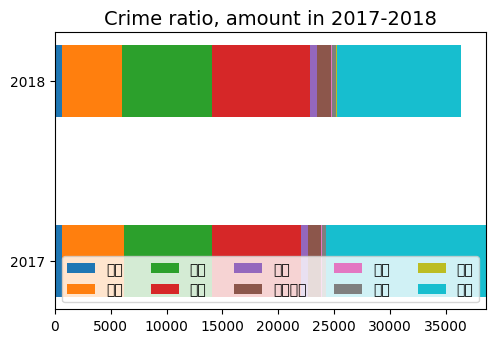
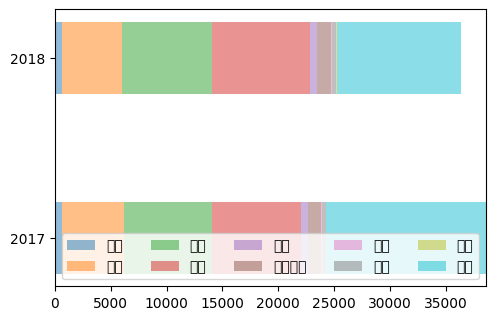
0612_2221

diff --git a/gui.py b/gui.py
@@ -15,7 +15,6 @@ import json
 
 path = 'NanumGothic.ttf'
 font_name = fm.FontProperties(fname=path).get_name()
-print(font_name)
 plt.rc('font', family=font_name)
 
 def loadCrimeData():
@@ -100,13 +99,18 @@ def getCrimeData(year):
 def saveCrimeCountGraph():
     global temp_2017
 
+    fig, ax1 = plt.subplots()
+    fig.set_size_inches(5, 4)
+
     temp=getCrimeData(2017)
-    # Basic stacked area chart.
+
+    # 시별 범죄 발생 건수
     x=temp.columns[2:]
     y_list=[]
 
     summations=[]
     cities=temp.columns[2:]
+
     bar_colors=[]
 
     for i in range(10):
@@ -116,30 +120,54 @@ def saveCrimeCountGraph():
     for city in cities:
         y=temp[city]
         summations.append(sum([int(i) for i in y]))
-        bar_colors.append('blue')
+        bar_colors.append('black')
 
     bar_colors[len(bar_colors)-1]='red'
 
     temp_2017=pd.DataFrame({'City':x, 'Counts':summations})
-    temp_2017=temp_2017.sort_values(['Counts','City'], ascending=True)
+    temp_2017=temp_2017.sort_values(['City'], ascending=True)
+    
+    new_cities=list(temp_2017['City'])
+    new_counts=list(temp_2017['Counts'])
 
-    plt.barh(range(len(x)), list(temp_2017['Counts']), color=bar_colors)
+    plt.plot(new_cities, new_counts, alpha=0.6)
+    fig.autofmt_xdate(rotation=45)
 
-    ax = plt.gca()
-    ax.axes.xaxis.set_visible(False)
-    ax.axes.xaxis.set_ticks([])
 
-    plt.gca().spines['right'].set_visible(False) #오른쪽 테두리 제거
-    plt.gca().spines['top'].set_visible(False) #위 테두리 제거
-    plt.gca().spines['left'].set_visible(False) #왼쪽 테두리 제거
-    plt.gca().spines['bottom'].set_visible(False) #아래쪽 테두리 제거
+    ax2 = ax1.twinx()
 
-    # plt.title('Total crime counts by city', fontsize=18)
-    # plt.ylabel('City', fontsize=15)
-    # plt.xlabel('Crime counts', fontsize=15)
-    plt.yticks(range(len(x)), list(temp_2017['City']), fontsize=10, rotation=0)
-    plt.savefig('CrimeCounts.png', transparent=True, bbox_inches = 'tight')
+    temp_cctv=[]
+    temp_bell=[]
+    temp_police=[]
+    for city in new_cities:
+        temp_bell.append(len(loadBellData(2017, city))-len(loadBellData(2016, city)))
+        temp_cctv.append(len(loadCCTVData(2017, city))-len(loadCCTVData(2016, city)))
+        temp_police.append(sum(loadPoliceData(2017,city)['인원증감']))
 
+    bar_width = 0.25
+    indexs1=[]
+    for i in range(len(cities)):
+        indexs1.append(i+1)
+
+    indexs2=[]
+    for i in range(len(cities)):
+        indexs2.append(i+1+bar_width)
+
+    indexs3=[]
+    for i in range(len(cities)):
+        indexs3.append(i+1+2*bar_width)
+
+    plt.bar(indexs1, temp_cctv, color='r',width=bar_width, alpha=0.5, label='CCTV')
+    plt.bar(indexs2, temp_bell, color='g',width=bar_width, alpha=0.5, label='Bell')
+    plt.bar(indexs3, temp_police, color='b',width=bar_width, alpha=0.5, label='PoliceMan')
+
+    plt.legend()
+
+    plt.title("Increasement of facilities and amount of crime", fontsize=14)
+    plt.savefig('CrimeFacilityCounts.png', transparent=True, bbox_inches = 'tight')
+
+    print(pd.DataFrame({'city':new_cities, 'counts':new_counts, 'cctv':temp_cctv, 'bell':temp_bell, 'police':temp_police}))
+    
 def saveCorrGraph():
     global corr_result
 
@@ -184,24 +212,8 @@ def getCrimeDifference(city):
 
 getCrimeDifference('수원시')
 
-def saveCrimePieChart(city):
+def saveCrimeDiffChart(city):
     crime_diff=getCrimeDifference('수원시')
-    # plt.clf()
-    # plt.subplot(1,2,1)
-    # plt.pie(crime_diff['2017'].tolist(),
-    #          labels=list(crime_diff.index),
-    #          startangle=90,
-    #          counterclock=True,
-    #          autopct=lambda p: '{:.2f}%'.format(p))
-    # # plt.savefig('Crime2017.png', transparent=True, bbox_inches = 'tight')
-
-    # plt.subplot(1,2,2)
-    # plt.pie(crime_diff['2018'].tolist(),
-    #          labels=list(crime_diff.index),
-    #          startangle=90,
-    #          counterclock=True,
-    #          autopct=lambda p: '{:.2f}%'.format(p))
-    # plt.savefig('Crime_2017_2018.png', transparent=True, bbox_inches = 'tight')
 
     plt.clf()
     fig = plt.gcf()
@@ -224,14 +236,13 @@ def saveCrimePieChart(city):
     for i, colname in enumerate(zip(category_names)):
         widths = data[:, i]
         starts = data_cum[:, i] - widths
-        rects = plt.barh(['2017','2018'], widths, left=starts, height=0.4,
-                        label=category_names[i])
+        rects = plt.barh(['2017','2018'], widths, left=starts, height=0.4, alpha=0.5, label=category_names[i])
 
-    plt.title("Crime ratio, amount in 2017-2018", fontsize=14)
+    # plt.title("Crime ratio, amount in 2017-2018", fontsize=14)
     plt.legend(loc="lower left", ncol=len(category_names)//2)
     plt.savefig('Crime_2017_2018_2.png', dpi=100, transparent=True, bbox_inches = 'tight')
 
-saveCrimePieChart('수원시')
+saveCrimeDiffChart('수원시')
 
 def saveFacilitiesGraph():
     crime2017=getCrimeData(2017)
@@ -293,7 +304,6 @@ saveFacilitiesGraph()
 
 def polygon_click(polygon):
     print('cliekced', polygon.name)
-    current_city.set(polygon.name+' 범죄 발생 통계')
 
 root = Tk()
 
@@ -309,25 +319,25 @@ ttk.Label(frm1_1, text="데이터 분석 기초 5조 팀프로젝트", font=("Ti
 ttk.Label(frm1_1, text="범죄예방시설물의 영향도 분석", font=("Times","14","bold")).grid(column=0, row=1,columnspan=2, sticky=W)
 ttk.Label(frm1_1, text=" ").grid(column=0, row=2,columnspan=2, sticky=W)
 ttk.Label(frm1_1, text="팀원").grid(column=0, row=3, sticky=W)
-ttk.Label(frm1_1, text="강동영, 김우석, 김영준, 소문주, 조가희").grid(column=1, row=3, sticky=W)
-frm1_1.place(height=100, width=420, x=0,y=0)
+ttk.Label(frm1_1, text="강동영, 김우석, 곽영진, 소문주, 조가희").grid(column=1, row=3, sticky=W)
+frm1_1.place(height=100, width=600, x=0,y=0)
 
 frm1_2 = ttk.Frame(frm1, padding=0)
-ttk.Label(frm1_2, text="\n시별 범죄 발생률(기준: 2017년도)", font=("Times","12","bold")).pack(anchor="w")
-image=PhotoImage(file="CrimeCounts.png",master=frm1_2)
+ttk.Label(frm1_2, text="\n2017-2018년도 범죄 양상 비교", font=("Times","12","bold")).pack(anchor="w")
+image=PhotoImage(file="Crime_2017_2018_2.png",master=frm1_2)
 label=ttk.Label(frm1_2, image=image)
 label.pack(anchor="nw")
-frm1_2.place(height=450, width=420, x=0, y=100)
-frm1.place(height=550, width=420, x=0,y=0)
+frm1_2.place(height=450, width=600, x=0, y=100)
+frm1.place(height=550, width=600, x=0,y=0)
 
 
 frm2 = ttk.Frame(root, padding=30)
-frm2.place(height=550, width=1350, x=420, y=0)
+frm2.place(height=550, width=1200, x=550, y=0)
 
 frm2_1 = ttk.Frame(frm2, padding=0)
-map_widget=tkintermapview.TkinterMapView(frm2_1,height=550,width=1350,corner_radius=0)
+map_widget=tkintermapview.TkinterMapView(frm2_1,height=550,width=1200,corner_radius=0)
 map_widget.set_position(37.394946, 127.111104)
-map_widget.place(height=550, width=1350, x=0, y=0)
+map_widget.place(height=550, width=1200, x=0, y=0)
 
 gyeonggi_geojson='./TL_SCCO_SIG.json'
 
@@ -336,7 +346,7 @@ with open(gyeonggi_geojson, 'r', encoding='utf-8') as file:
 
 map_widget.set_zoom(10)
 map_widget.pack()
-frm2_1.place(height=550, width=1350, x=0, y=0)
+frm2_1.place(height=550, width=1200, x=0, y=0)
 
 
 
@@ -381,7 +391,7 @@ def check1Changed():
     # cctv
     if CheckVar1.get()==1:
         print("cctv checked")
-        cctv_data=loadCCTVData('경기도')
+        cctv_data=loadCCTVData(2017, '경기도')
         cctv_image = ImageTk.PhotoImage(Image.open(os.path.join(os.path.dirname(os.path.abspath(__file__)), "cctv.png")).resize((300, 200)))
         for i in range(0,len(cctv_data)):
             m=map_widget.set_marker(cctv_data.iloc[i]['위도'], cctv_data.iloc[i]['경도'], text=cctv_data.iloc[i]['설치목적구분'], image=cctv_image, image_zoom_visibility=(14, float("inf")))
@@ -397,7 +407,7 @@ def check2Changed():
     # bell
     if CheckVar2.get()==1:
         bell_image = ImageTk.PhotoImage(Image.open(os.path.join(os.path.dirname(os.path.abspath(__file__)), "bell.png")).resize((300, 200)))
-        emergency_bell_data=loadBellData('경기도')
+        emergency_bell_data=loadBellData(2017, '경기도')
         for i in range(0,len(emergency_bell_data)):
             m=map_widget.set_marker(emergency_bell_data.iloc[i]['위도'], emergency_bell_data.iloc[i]['경도'], image=bell_image, image_zoom_visibility=(14, float("inf")))
             m.hide_image(False)
@@ -424,11 +434,12 @@ for feature in geojson["features"]:
 
 def radioChanged():
     global currentPolygon
+
     if currentPolygon is not None:
         currentPolygon.delete()
 
     if RadioVariety.get() == 1:    
-        police_data=loadPoliceData('경기')
+        police_data=loadPoliceData(2017,'경기')
 
         print('경찰관 checked')
         colors=["green", "orange", "orangered1","orangered4"]
@@ -449,7 +460,6 @@ def radioChanged():
                 else:
                     flag=0
                     
-                print(coords)
                 currentPolygon = map_widget.set_polygon(coords,
                                     fill_color=colors[flag],
                                     border_width=2,
@@ -505,12 +515,9 @@ label.pack(anchor="w")
 frm3_2=ttk.Frame(frm3, padding=0)
 frm3_2.place(height=500, width=600, x=550, y=0)
 
-image5=PhotoImage(file="Crime_2017_2018_2.png",master=frm3_1)
+image5=PhotoImage(file="CrimeFacilityCounts.png",master=frm3_1)
 label=ttk.Label(frm3_2, image=image5)
 label.pack(anchor="w")
-
-current_city = StringVar()
-current_city.set('---')
 
 # frm2_2_1=ttk.Frame(frm2_2, padding=0)
 # frm2_2_1.place(height=550, width=600, x=0, y=0)
@@ -522,6 +529,15 @@ current_city.set('---')
 
 frm5 = ttk.Frame(root, padding=30)
 frm5.place(height=500, width=600, x=1150,y=550)
+
+frm5_1 = ttk.Frame(frm5, padding=0)
+frm5_1.place(height=30, width=600, x=0, y=0)
+
+ttk.Label(frm5_1, text="Correlation Analysis", font=("Times","14","bold")).pack(anchor="center")
+
+frm5_2 = ttk.Frame(frm5, padding=0)
+frm5_2.place(height=500, width=600, x=0,y=30)
+
 listOfIndex=list(corr_result.index)
 
 flag=False
@@ -550,18 +566,20 @@ else:
     strNonAffectable=strNonAffectable+"없습니다"
 
 
-ttk.Label(frm5, text="").grid(column=0, row=0)
+ttk.Label(frm5_2, text="").grid(column=0, row=0)
 for i in range(len(listOfIndex)):
-    ttk.Label(frm5, text=listOfIndex[i], font=("Times","12","bold")).grid(column=i+1, row=0, sticky=W)
+    ttk.Label(frm5_2, text=listOfIndex[i], font=("Times","12","bold")).grid(column=i+1, row=0, sticky=W)
 
 for j in range(len(listOfIndex)):
-    ttk.Label(frm5, text=listOfIndex[j], font=("Times","12","bold")).grid(column=0, row=j+1, sticky=W)
+    ttk.Label(frm5_2, text=listOfIndex[j], font=("Times","12","bold")).grid(column=0, row=j+1, sticky=W)
     for i in range(len(listOfIndex)):
-        ttk.Label(frm5, text=str(corr_result.at[listOfIndex[j],listOfIndex[i]]), font=("Times","12")).grid(column=i+1, row=j+1, sticky=W)
+        ttk.Label(frm5_2, text=str(corr_result.at[listOfIndex[j],listOfIndex[i]]), font=("Times","12")).grid(column=i+1, row=j+1, sticky=W)
 
-ttk.Label(frm5, text="", font=("Times","14")).grid(column=0, row=5, columnspan=5, sticky=W)
-ttk.Label(frm5, text=strAffectable, font=("Times","12")).grid(column=0, row=6, columnspan=5, sticky=W)
-ttk.Label(frm5, text=strNonAffectable, font=("Times","12")).grid(column=0, row=7, columnspan=5, sticky=W)
+ttk.Label(frm5_2, text="", font=("Times","14")).grid(column=0, row=5, columnspan=5, sticky=W)
+ttk.Label(frm5_2, text=strAffectable, font=("Times","12")).grid(column=0, row=6, columnspan=5, sticky=W)
+ttk.Label(frm5_2, text=strNonAffectable, font=("Times","12")).grid(column=0, row=7, columnspan=5, sticky=W)
+ttk.Label(frm5_2, text="", font=("Times","12")).grid(column=0, row=8, columnspan=5, sticky=W)
+ttk.Label(frm5_2, text="범죄가 많이 발생한 곳, cctv수 상관", font=("Times","12")).grid(column=0, row=9, columnspan=5, sticky=W)
 
 
 root.mainloop()

diff --git a/test.py b/test.py
@@ -1,58 +1,16 @@
 import pandas as pd
 import matplotlib.pyplot as plt
 import seaborn as sns
+import pandas as pd
+import csv
+import json
 
-# 2017년 기준
-crime_sort=['강력범죄','절도범죄','폭력범죄','지능범죄','풍속범죄','특별경제범죄','마약범죄','보건범죄','환경범죄','교통범죄']
-crime_diff=[-35, 113, 152, 750, 18, 178, -60, 37, 3, -3107]
-cctv=[2565,2565,2565,2565,2565,2565,2565,2565,2565,2565]
-bell=[1733,1733,1733,1733,1733,1733,1733,1733,1733,1733]
-policeman=[539,539,539,539,539,539,539,539,539,539]
+def loadCCTVData(year, city):
+    cctv_data= pd.read_csv('./CCTV현황(개방표준).csv')
+    cctv_data=cctv_data.loc[(cctv_data['설치년월'].str.contains(str(year))==True)]
+    cctv_data=cctv_data.loc[(cctv_data['소재지지번주소'].str.contains(city)==True)]
+    return cctv_data
 
 
-#        cctv bell 경찰관 강력범죄 감소
-# 수원시  100  50  10       5
-# 안양시  90   44  15       3
-# 평택시  105  98  20       7
-
-d1=[100, 90, 105]
-d2=[50, 44, 98]
-d3=[10,15,20]
-d4=[5,3,7]
-
-data=pd.DataFrame({'cctv':d1,'bell':d2,'policeman':d3,'crime':d4},index=['수원시','안양시','평택시'])
-print(data)
-print(data.corr(method='pearson'))
-
-# cctv/bell/경찰관 수가 강력범죄 예방에 미치는 영향도 
-# cctv 1등 , bell 2등, 경찰관 3등
-
-# 수원시의 범죄종류별 상관관계 분석
-# 수원시의 top5 범죄종류
-# top5 범죄간의 상관관계 분석
-#      강력, 절도, 폭력
-# 강력   0.1  0.1  0.5 = 0.7
-# 절도  0.4   -0.1 0.1 = 0.4
-# 폭력  0.4   0.3  -0.2 = 0.5
-# 강력범죄 예방에 효과가 가장 큰 것은 cctv였으므로 수원시에는 cctv 추가 증설을 통한 강력, 절도, 폭력범죄 감소 효과 추천
-
-crime_type=['강력범죄','절도범죄','폭력범죄','지능범죄','풍속범죄','특별경제범죄','마약범죄','보건범죄','환경범죄','교통범죄','노동범죄','안보범죄','선거범죄','병역범죄', '기타범죄']
-year2017=[672, 5494, 7919, 7973, 595, 1133, 158, 318, 32, 14266, 109, 0, 24, 376, 6922]
-year2018=[637, 5381, 8071, 8723, 613, 1311, 98, 355, 35, 11159, 39, 1, 24, 354, 5322]
-year2019=[629, 5180, 7871, 10117, 743, 1324, 137, 289, 40, 9810, 10, 0, 3, 348, 5196]
-year2020=[620, 4868, 7016, 10413, 1860, 1134, 176, 331, 14, 8826, 3, 2, 8, 68, 5320]
-
-# 수원시는 강력범죄가 증가하면 절도범죄가 0.84, 교통범죄 0.99 증가 ==> 강력범죄가 감소하면 절도범죄, 교통범죄도 같이 감소한다
-# 그런데 강력범죄를 예방하는것은 cctv가 가장 효과가 좋다
-# 강력범죄 10개 줄었다, cctv 10개(10/10=1), bell (10/8=1.xx), 경찰관 3명(10/3=3.3)  ==> 경찰관이 가장 범죄예방 효과가 좋음 
-# 수원시는 cctv를 증가시키면 강력범죄, 절도범죄, 교통범죄의 감소를 도모할 수 있다
-
-data=pd.DataFrame({'2017':year2017, '2018':year2018,'2019':year2019,'2020':year2020})
-data=data.transpose()
-data.columns=crime_type
-corr_result=data.corr(method='pearson')
-print(data)
-print(corr_result)
-
-# sns.pairplot(data,hue='crime')
-# plt.savefig('test.png')
+print(len(loadCCTVData(2017, '수원')))
+print(len(loadCCTVData(2016, '수원')))
